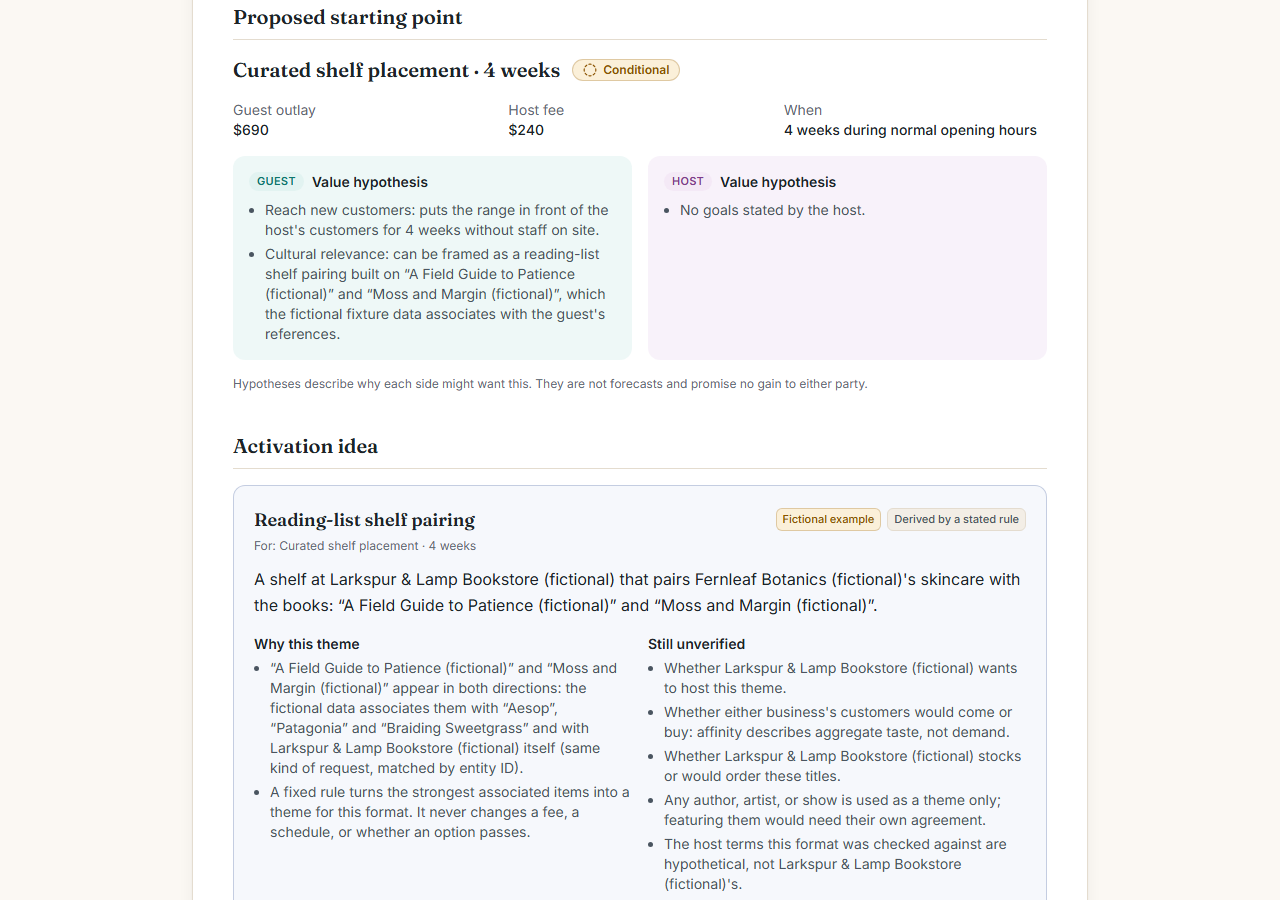
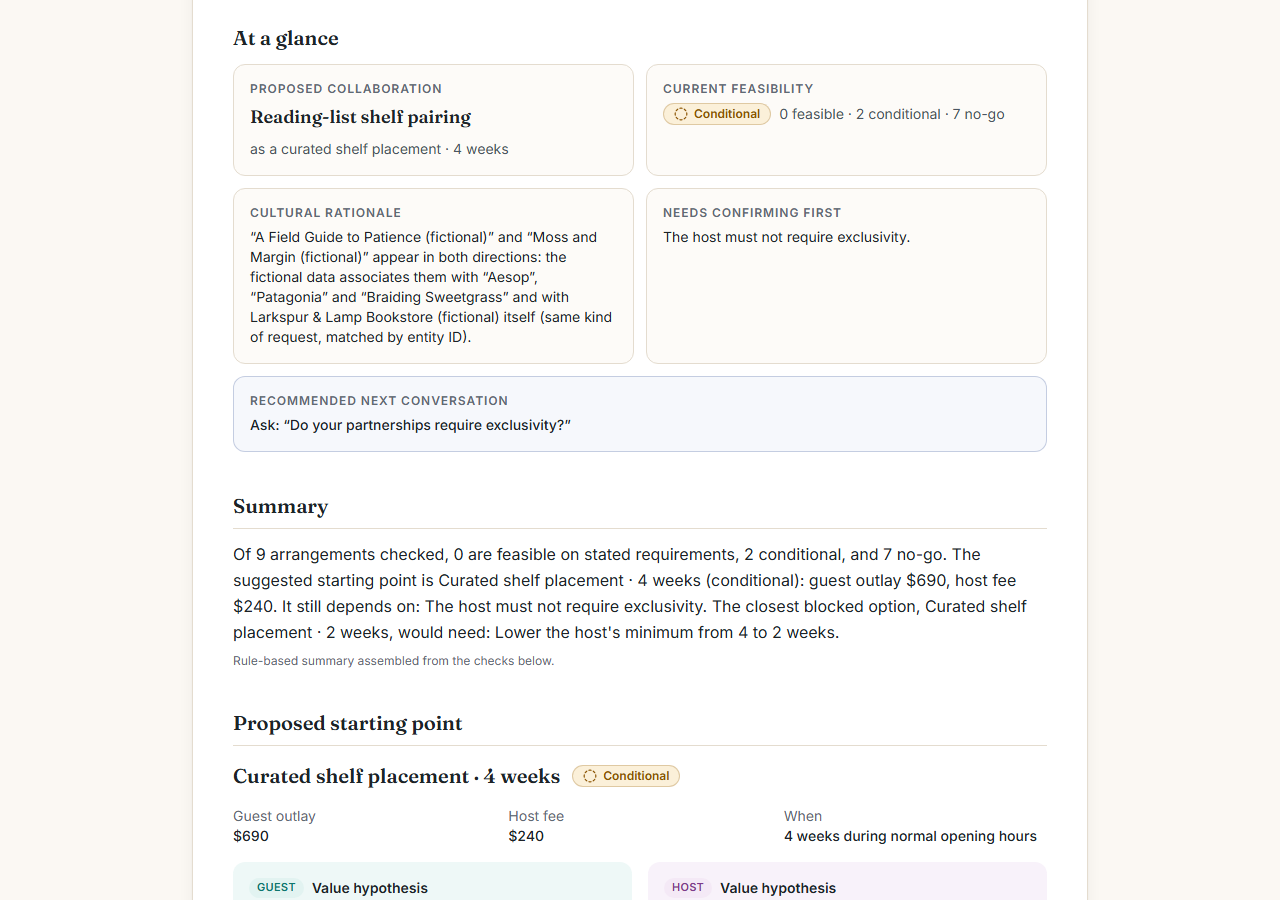
docs: refresh screenshots and labels for the redesigned frontier, reversal, and brief

diff --git a/scripts/screenshots.ts b/scripts/screenshots.ts
@@ -9,6 +9,11 @@ import { chromium } from "@playwright/test";
 const base = process.argv[2] ?? "http://localhost:5173";
 mkdirSync("docs/images", { recursive: true });
 
+/** Scrolls so an element starts just below the top edge, framing the section that follows it. */
+async function frame(selector: string) {
+  await page.locator(selector).first().evaluate((el) => window.scrollTo(0, el.getBoundingClientRect().top + window.scrollY - 24));
+}
+
 const browser = await chromium.launch();
 const page = await browser.newPage({ viewport: { width: 1280, height: 900 }, deviceScaleFactor: 1 });
 await page.setExtraHTTPHeaders({ "cf-connecting-ip": "10.20.30.40" });
@@ -32,18 +37,21 @@ await page.screenshot({ path: "docs/images/host.png" });
 
 await guide.getByRole("button", { name: "See which arrangements work" }).click();
 await page.getByRole("heading", { name: "Agreement Frontier", level: 1 }).waitFor();
+await frame('[aria-labelledby="decision-title"]');
 await page.screenshot({ path: "docs/images/frontier.png" });
 
-await page.getByRole("heading", { name: "Ideas worth proposing" }).scrollIntoViewIfNeeded();
+await frame('[aria-labelledby="concepts-title"]');
 await page.screenshot({ path: "docs/images/ideas.png" });
 
-await guide.getByRole("button", { name: "Find the smallest change" }).click();
+await page.getByRole("button", { name: /Explore the change/ }).click();
 await page.getByRole("button", { name: /Apply this change/ }).click();
 await page.getByRole("status").filter({ hasText: "You applied" }).waitFor();
+await frame('[aria-labelledby="shift-title"]');
 await page.screenshot({ path: "docs/images/reversal.png" });
 
 await guide.getByRole("button", { name: "Build the decision brief" }).click();
-await page.getByRole("heading", { name: "Activation idea" }).scrollIntoViewIfNeeded();
+await page.getByRole("heading", { name: "At a glance" }).waitFor();
+await frame('[aria-labelledby="glance-title"]');
 await page.screenshot({ path: "docs/images/brief.png" });
 
 await browser.close();

diff --git a/src/client/pages/Methodology.tsx b/src/client/pages/Methodology.tsx
@@ -143,7 +143,7 @@ export function Methodology() {
           scores a tie, and says when Qloo's explanation and the removal test disagree. A failed repeat is reported as not measured.
         </p>
         <p className="mt-3">
-          <span className="font-medium text-ink">Ideas worth proposing.</span> Up to five ideas, each from a different slice of the evidence: titles
+          <span className="font-medium text-ink">Collaboration ideas.</span> Up to five ideas, each from a different slice of the evidence: titles
           both sides share, the venue's own side, the guest's side, taste tags, and the venue's stated interests. A fixed rule says which formats each
           idea suits; whether a format works comes only from the checks above. The first idea with a workable format is marked to discuss first.
         </p>

diff --git a/README.md b/README.md
@@ -56,12 +56,12 @@ arrangement both can accept.
   <img src="docs/images/host.png" alt="A chosen venue with the guest's side and the venue's own side of the cultural bridge" width="49%" />
 </p>
 <p>
-  <img src="docs/images/frontier.png" alt="Agreement Frontier headline: why the obvious event fails and the closest verified change" width="49%" />
-  <img src="docs/images/ideas.png" alt="Ideas worth proposing, each with the rules engine's status for the formats it suits" width="49%" />
+  <img src="docs/images/frontier.png" alt="Agreement Frontier: the answer in three counts, then the arrangement closest to agreement before and after one change" width="49%" />
+  <img src="docs/images/ideas.png" alt="The recommended collaboration idea with its best format's status, other ideas one tab away" width="49%" />
 </p>
 <p>
-  <img src="docs/images/reversal.png" alt="Decision Reversal after applying one change, with the before and after status" width="49%" />
-  <img src="docs/images/brief.png" alt="Decision brief with the hypothetical-terms warning and the activation idea" width="49%" />
+  <img src="docs/images/reversal.png" alt="Decision Reversal: entered terms, the what-if change, and the re-checked status side by side" width="49%" />
+  <img src="docs/images/brief.png" alt="Decision brief at a glance: proposed collaboration, feasibility, cultural rationale, confirmations, and the next conversation" width="49%" />
 </p>
 
 *Screenshots show the guided example in fixture mode: every business, venue, and cultural result in them is
